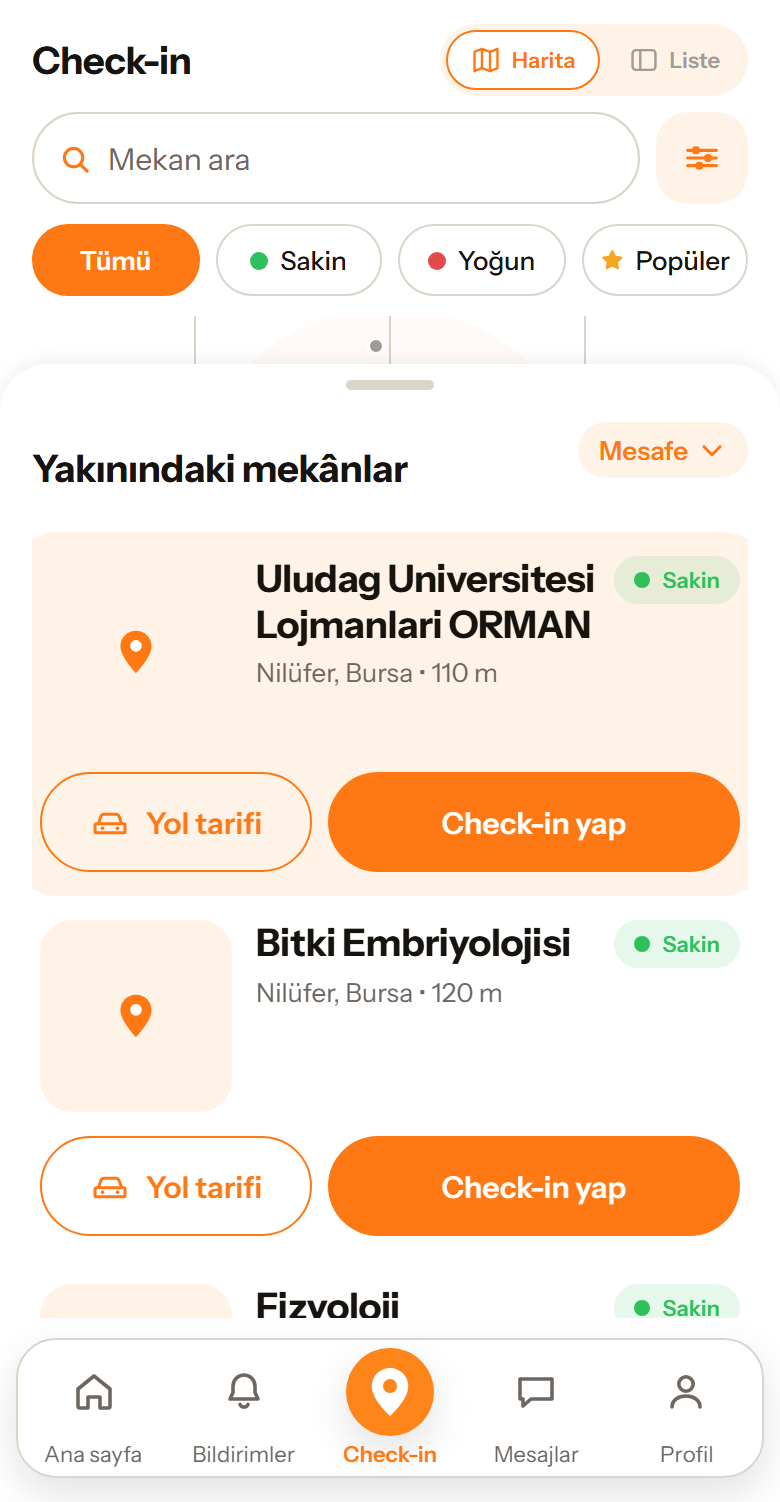
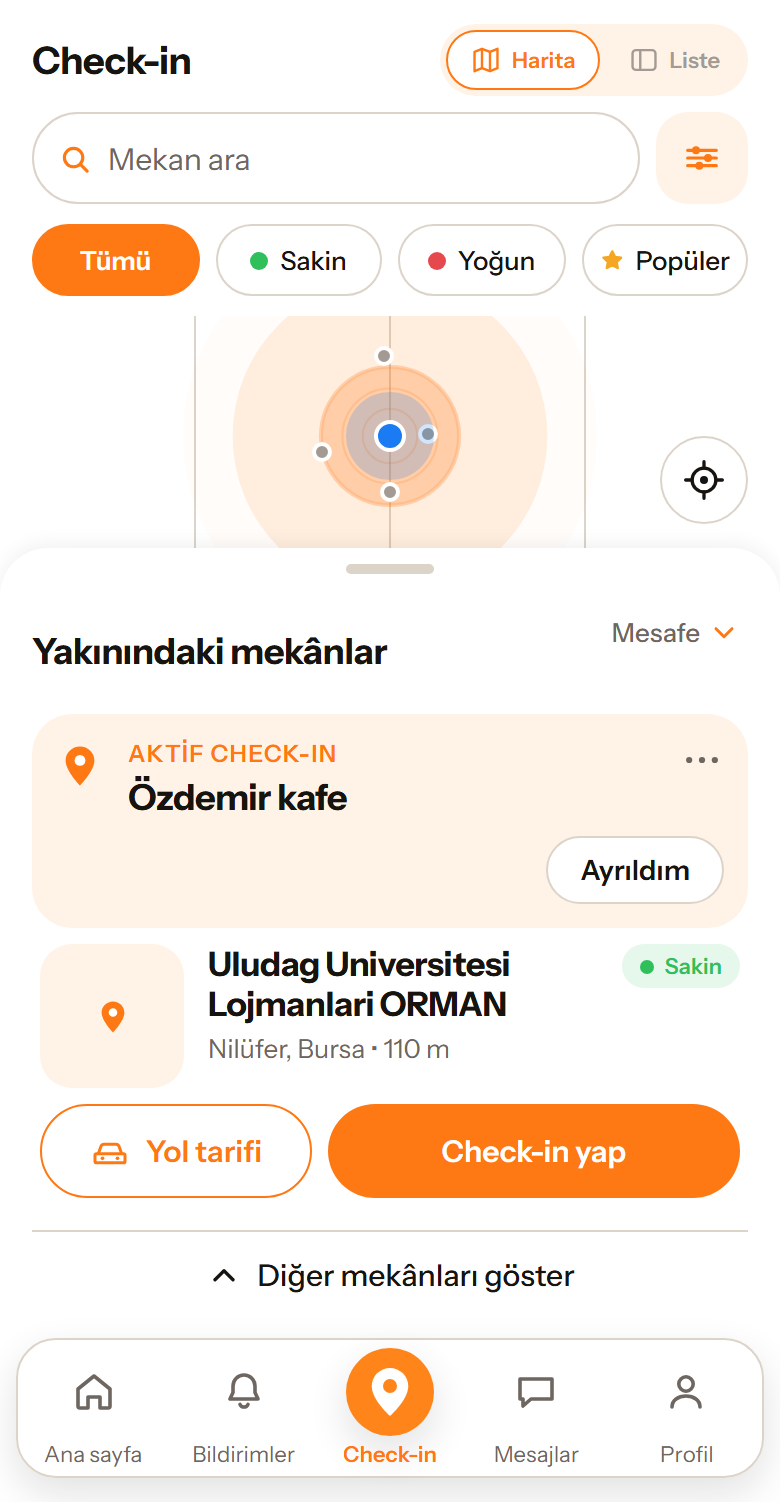
style(check-in paneli): referans olculeri - kare 72, ad 17, dugmeler 40, kapali panelde secili zeminsiz, aktif kart sikilasti
Claude-Session: https://claude.ai/code/session_01NLq7DtPDxk3n3DyvBfgF13

diff --git a/mobil/src/app/mekanlar/index.tsx b/mobil/src/app/mekanlar/index.tsx
@@ -141,7 +141,7 @@ const DURUM_RENGI: Record<MekanDurumu, string> = {
 const ONERI_ADEDI = 6
 
 /** Karttaki avatar yigininin capi (referans gorsel). */
-const BULUNAN_AVATAR_CAPI = 28
+const BULUNAN_AVATAR_CAPI = 22
 
 const DURUM_ZEMINI: Record<MekanDurumu, string> = {
   sakin: 'rgba(47, 191, 91, 0.12)',
@@ -1015,7 +1015,9 @@ export default function KesfetEkrani() {
           return (
           <Pressable
             key={item.id}
-            style={[stiller.mekanKarti, oneCikan && stiller.mekanKartiOneCikan]}
+            /* Secili zemin YALNIZCA liste acikken (referans 2026-09-20: kapali
+               panelde tek satir zeminsiz, yalnizca kare seftali). */
+            style={[stiller.mekanKarti, oneCikan && panelAcik && stiller.mekanKartiOneCikan]}
             testID={`mekan-karti-${item.id}`}
             onPress={secilebilir ? () => mekaniSec(item.id) : undefined}
             accessibilityState={secilebilir ? { selected: oneCikan } : undefined}
@@ -1726,7 +1728,8 @@ function AsagiOkIkonu({ renk: c }: { renk: string }) {
 
 const KART_GENISLIK = 256
 /** Karttaki kare kapak fotografinin kenari (referans gorsel). */
-const KAPAK_OLCUSU = 96
+// Referans 2026-09-20 aksam: kare dugme yuksekliginin ~1,5 kati (72).
+const KAPAK_OLCUSU = 72
 
 /*
  * KART YUKSEKLIGI TAHMINLERI - yalnizca "hangi kartin kucuk haritasi
@@ -1754,7 +1757,7 @@ const stilleriYap = (renk: Renk) => StyleSheet.create({
   // `marginLeft: 'auto'` eylemleri seridin sagina itiyor; sabit bir
   // genislik verilseydi uzun bir durum metni onlari tasardi.
   canliEylemler: { flexDirection: 'row', alignItems: 'center', gap: bosluk.m, marginLeft: 'auto' },
-  ayrilYazi: { fontFamily: yazi.govdeKalin, fontSize: olcek.govde, color: renk.metin },
+  ayrilYazi: { fontFamily: yazi.govdeKalin, fontSize: olcek.kucuk + 1, color: renk.metin },
   ayrilYaziEski: {
     fontFamily: yazi.govdeKalin,
     fontSize: olcek.kucuk,
@@ -1773,48 +1776,48 @@ const stilleriYap = (renk: Renk) => StyleSheet.create({
   buradaKart: {
     backgroundColor: renk.turuncuZemin,
     borderRadius: yuvarlak.buyuk,
-    padding: bosluk.l,
-    marginTop: bosluk.m,
-    gap: bosluk.m,
+    padding: bosluk.m,
+    marginTop: bosluk.s,
+    gap: bosluk.s,
   },
   buradaUst: { flexDirection: 'row', alignItems: 'flex-start', gap: bosluk.m },
   buradaIgne: { paddingTop: 2 },
   buradaMetin: { flex: 1 },
   buradaEtiket: {
     fontFamily: yazi.govdeKalin,
-    fontSize: olcek.kucuk,
+    fontSize: 12,
     color: renk.turuncuYazi,
     letterSpacing: 0.6,
     marginBottom: 4,
   },
   buradaAd: {
     fontFamily: yazi.ekranBasligi,
-    fontSize: olcek.altBaslik + 2,
+    fontSize: 18,
     color: renk.metin,
     letterSpacing: -0.3,
   },
   buradaAlt: {
     fontFamily: yazi.govde,
-    fontSize: olcek.govde,
+    fontSize: olcek.kucuk,
     color: renk.metinIkincil,
     marginTop: 2,
   },
   buradaAltSatir: { flexDirection: 'row', alignItems: 'center', justifyContent: 'space-between', gap: bosluk.m },
   buradaKisi: { flexDirection: 'row', alignItems: 'center', gap: 6 },
-  buradaKisiYazi: { fontFamily: yazi.govdeKalin, fontSize: olcek.govde, color: renk.turuncuYazi },
+  buradaKisiYazi: { fontFamily: yazi.govdeKalin, fontSize: olcek.kucuk + 1, color: renk.turuncuYazi },
   ayrilDugmesi: {
     backgroundColor: renk.yuzey,
     borderWidth: 1,
     borderColor: renk.cizgi,
     borderRadius: yuvarlak.hap,
-    paddingHorizontal: bosluk.xl,
-    paddingVertical: 12,
+    paddingHorizontal: bosluk.l,
+    paddingVertical: 7,
   },
   ayrilDugmesiBasili: { backgroundColor: renk.zemin },
   checkInButonu: {
     backgroundColor: renk.turuncu,
     borderRadius: yuvarlak.hap,
-    paddingVertical: 14,
+    paddingVertical: 10,
     alignItems: 'center',
   },
   checkInYazi: {
@@ -2090,9 +2093,9 @@ const stilleriYap = (renk: Renk) => StyleSheet.create({
   // olan acik listede seftali zeminle belli (turuncu cerceve kalkti).
   mekanKarti: {
     borderRadius: yuvarlak.buyuk,
-    paddingVertical: bosluk.m,
+    paddingVertical: bosluk.s,
     paddingHorizontal: bosluk.xs,
-    gap: bosluk.m,
+    gap: bosluk.s,
   },
   mekanKartiOneCikan: {
     backgroundColor: renk.turuncuZemin,
@@ -2115,9 +2118,11 @@ const stilleriYap = (renk: Renk) => StyleSheet.create({
     gap: bosluk.s,
   },
   kartAdAlani: { flex: 1, minWidth: 0 },
+  // Olculer referanstan (2026-09-20 aksam): ad 17, alt satir 13, kare 72,
+  // rozet ufak, dugmeler 40 pt.
   kartMekanAdi: {
     fontFamily: yazi.ekranBasligi,
-    fontSize: olcek.altBaslik,
+    fontSize: 17,
     color: renk.metin,
     letterSpacing: -0.3,
   },
@@ -2159,12 +2164,12 @@ const stilleriYap = (renk: Renk) => StyleSheet.create({
   rozet: {
     flexDirection: 'row',
     alignItems: 'center',
-    gap: 6,
-    paddingVertical: 5,
-    paddingHorizontal: 10,
+    gap: 5,
+    paddingVertical: 4,
+    paddingHorizontal: 9,
     borderRadius: yuvarlak.hap,
   },
-  rozetNokta: { width: 8, height: 8, borderRadius: 4 },
+  rozetNokta: { width: 7, height: 7, borderRadius: 4 },
   rozetYazi: { fontFamily: yazi.govdeKalin, fontSize: olcek.minik },
   kartEylemler: { flexDirection: 'row', gap: bosluk.s },
   // Yol tarifi: turuncu cerceveli, ici bos, ikonlu (referans).
@@ -2177,7 +2182,7 @@ const stilleriYap = (renk: Renk) => StyleSheet.create({
     borderWidth: 1.5,
     borderColor: renk.turuncu,
     borderRadius: yuvarlak.hap,
-    paddingVertical: 14,
+    paddingVertical: 10,
   },
   yolTarifiBasili: { backgroundColor: renk.turuncuZemin },
   yolTarifiYazi: {
@@ -2224,7 +2229,7 @@ const stilleriYap = (renk: Renk) => StyleSheet.create({
     paddingHorizontal: 4,
   },
   mesafeDugmesiBasili: { opacity: 0.7 },
-  mesafeDugmesiYazi: { fontFamily: yazi.govdeOrta, fontSize: olcek.govde, color: renk.metinIkincil },
+  mesafeDugmesiYazi: { fontFamily: yazi.govdeOrta, fontSize: olcek.kucuk, color: renk.metinIkincil },
   mesafeSeciliNokta: { width: 10, height: 10, borderRadius: 5, backgroundColor: renk.turuncu },
   mesafeBosNokta: { width: 10, height: 10, borderRadius: 5, borderWidth: 1.5, borderColor: renk.cizgi },
 
@@ -2377,7 +2382,7 @@ const stilleriYap = (renk: Renk) => StyleSheet.create({
 
   bolumBasligi: {
     fontFamily: yazi.ekranBasligi,
-    fontSize: olcek.altBaslik,
+    fontSize: 18,
     color: renk.metin,
     letterSpacing: -0.3,
     /*

diff --git a/mobil/__tests__/ekranlar/mekanlar/index.test.tsx b/mobil/__tests__/ekranlar/mekanlar/index.test.tsx
@@ -1439,12 +1439,14 @@ describe('MekanAramaEkrani - referans kart', () => {
     await render(<MekanAramaEkrani />)
     const ilk = await screen.findByTestId('mekan-karti-mola')
     expect(StyleSheet.flatten(ilk.props.style).borderWidth).toBeUndefined()
-    expect(StyleSheet.flatten(ilk.props.style).backgroundColor).toBe(acikRenk.turuncuZemin)
+    // Kapali panelde secili satir ZEMINSIZ (referans); zemin liste acilinca.
+    expect(StyleSheet.flatten(ilk.props.style).backgroundColor).toBeUndefined()
     expect(within(ilk).getByText('Yol tarifi')).toBeTruthy()
     expect(within(ilk).getByText('Check-in yap')).toBeTruthy()
     expect(screen.queryByTestId('mekan-karti-park')).toBeNull()
 
     await listeyiAc()
+    expect(StyleSheet.flatten(screen.getByTestId('mekan-karti-mola').props.style).backgroundColor).toBe(acikRenk.turuncuZemin)
     const ikinci = screen.getByTestId('mekan-karti-park')
     expect(StyleSheet.flatten(ikinci.props.style).backgroundColor).toBeUndefined()
     expect(within(ikinci).getByTestId('yol-tarifi-park')).toBeTruthy()
@@ -1453,7 +1455,8 @@ describe('MekanAramaEkrani - referans kart', () => {
     // Kartin bos yerine dokunmak parki SECER: cerceve ona gecer, panel kapanir.
     await fireEvent.press(ikinci)
     await waitFor(() => expect(screen.queryByTestId('mekan-karti-mola')).toBeNull())
-    expect(StyleSheet.flatten(screen.getByTestId('mekan-karti-park').props.style).backgroundColor).toBe(acikRenk.turuncuZemin)
+    // Panel kapandi: secili park, zeminsiz.
+    expect(screen.getByTestId('mekan-karti-park')).toBeTruthy()
   })
 
   it('kullanicinin ekledigi mekanda "Kafe • Nilüfer, Bursa • 240 m", dis kaynaklida tur yok', async () => {
